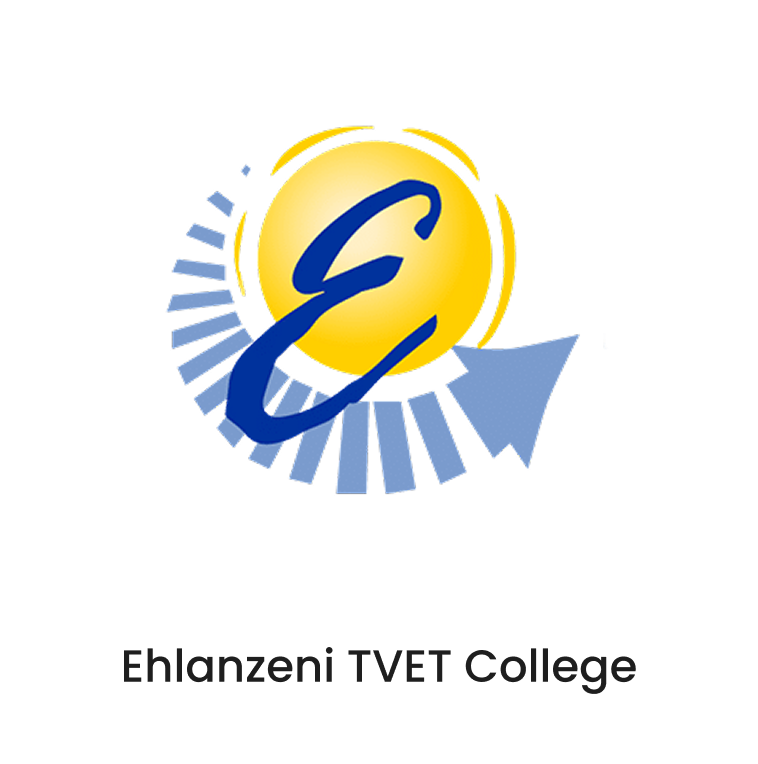
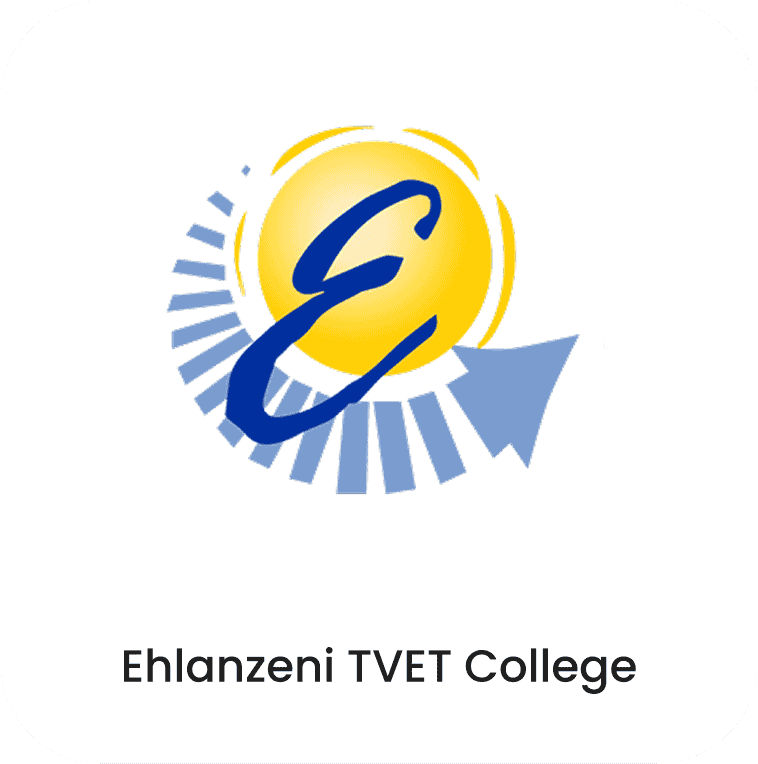
Optimise images

diff --git a/templates/index.html b/templates/index.html
@@ -37,7 +37,7 @@
                 <img src="/static/mobile-logo.png" alt="">
                 <h1>Leading ICT Solutions in Africa</h1>
             </div>
-            <a href="#about">
+            <a href="#solutions">
                 <button>Our Solutions</button>    
             </a>
                     
@@ -267,7 +267,7 @@
                 <div class="input-item">
                     <label for="name">Name</label>
                     <input type="text" name="name" id="">
-                </div>            
+                </div>
                 <div class="input-item">
                     <label for="email">Email</label>
                     <input type="email" name="email" id="">
@@ -278,23 +278,23 @@
                 </div>
                 <button type="submit">Send Message</button>
                 <div class="contact-row">
-                    <img src="/static/tel-icon.svg" alt=""> 
+                    <img src="/static/tel-icon.svg" alt="">
                     <a href="tel:+27725243718">072 524 3718</a>
                 </div>
                 <div class="contact-row">
-                    <img src="/static/web-icon.svg" alt=""> 
+                    <img src="/static/web-icon.svg" alt="">
                     <a href="https://techideas.co.za">www.techideas.co.za</a>
                 </div>
                 <div class="contact-row">
-                    <img src="/static/email-icon.svg" alt=""> 
+                    <img src="/static/email-icon.svg" alt="">
                     <a href="mailto:admin@techideas.co.za">admin@techideas.co.za</a>
                 </div>
                 <div class="contact-row">
-                    <img src="/static/location-icon.svg" alt=""> 
+                    <img src="/static/location-icon.svg" alt="">
                     <a href="">44 Kingfisher Street,<br> Mbombela <br> 1200 </a>
                 </div>
                 <div class="contact-row">
-                    <img src="/static/location-icon.svg" alt=""> 
+                    <img src="/static/location-icon.svg" alt="">
                     <a href="">854 Hornbill Street,<br> Pretoria <br> 0182 </a>
                 </div>
                 <div class="line"></div>

diff --git a/static/styles.css b/static/styles.css
@@ -115,7 +115,7 @@ section::before {
   background-size: cover;
   background-position: center;
 }
-#about {
+#solutions {
   background-image: url("./section-5.jpg");
   background-size: cover;
   background-attachment: fixed;

diff --git a/app.py b/app.py
@@ -24,7 +24,7 @@ def home():
         msg = MIMEText(f"Sender's Name: {name} \n\nEmail: {email}\n\nEnquiry: {enquiry}")
 
         # Set the headers
-        msg['Subject'] = f"New Enquiry from {name}"
+        msg['Subject'] = f"New Message From {name}"
         msg['From'] = FROM
         msg['To'] = TO
 
